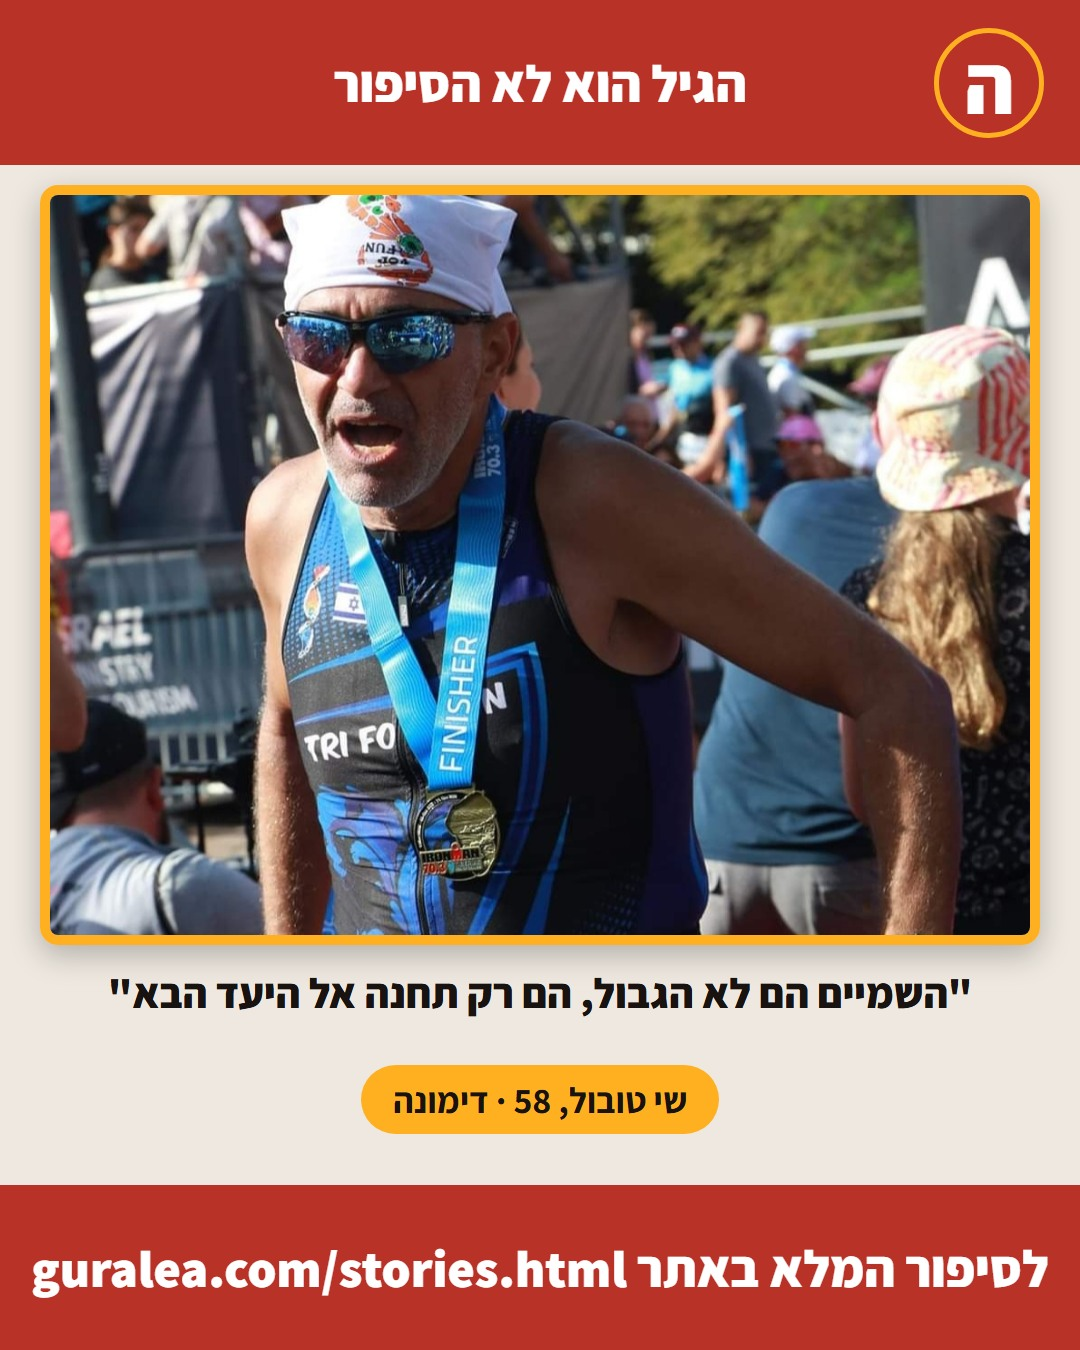
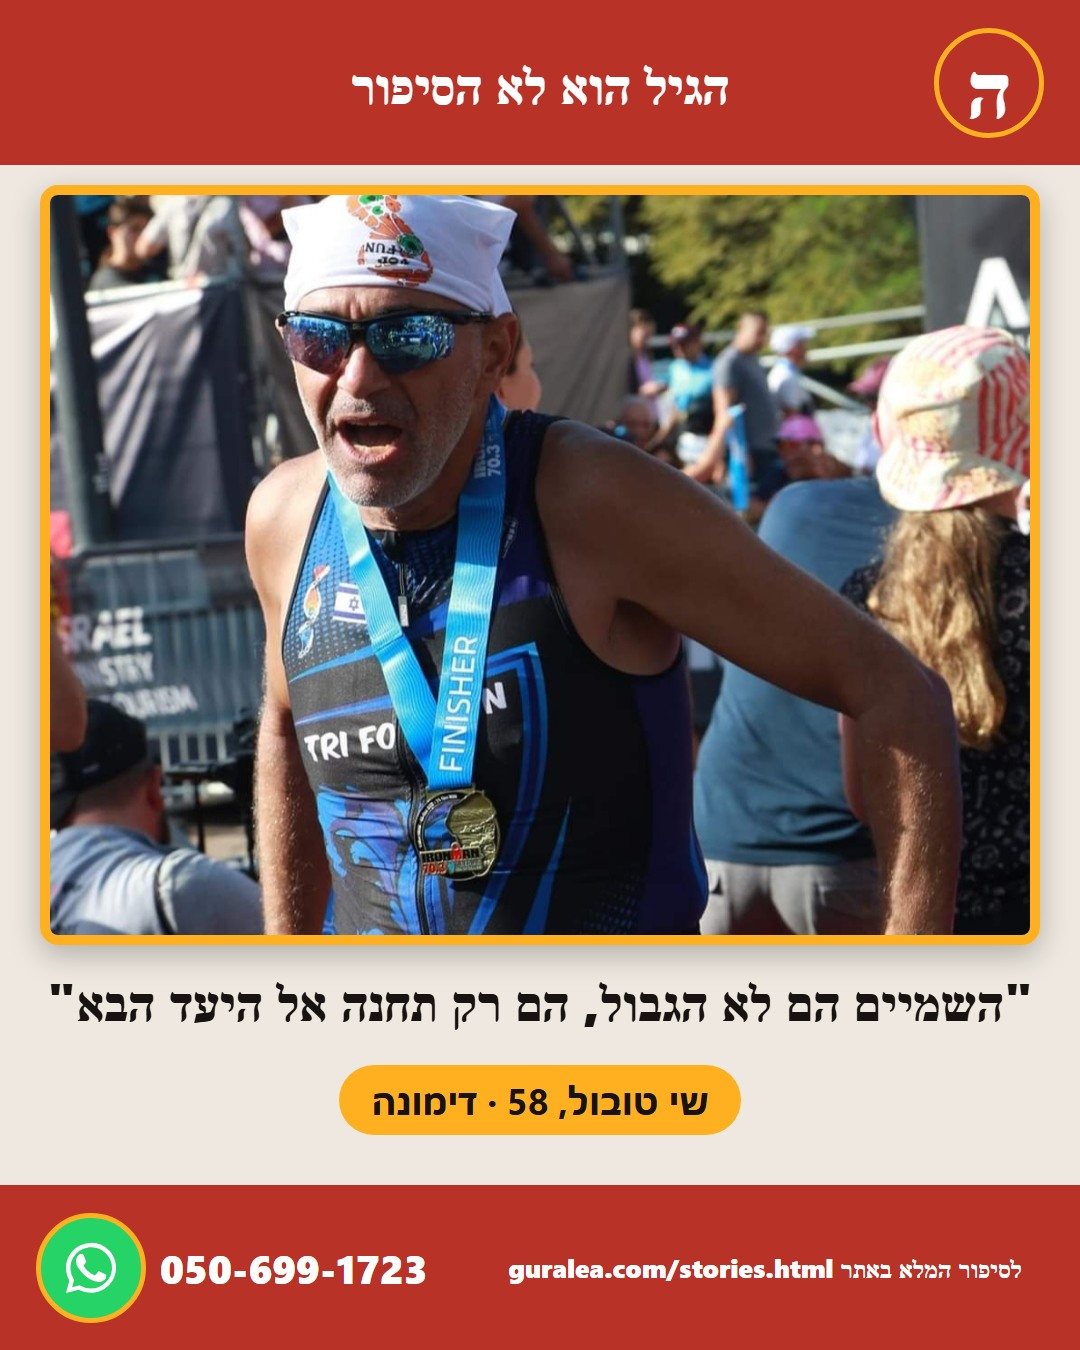
Lock final branded post template - approved by Leah, do not redesign
Adds a mirrored green WhatsApp badge (bottom-left, same size/inset as
the logo badge) to post-frame-template.html, required on every future
published image alongside the existing logo. Rebuilds Shai's committed
image files with the new design (asset update only - his post already
went out this morning under the old design and is not republished).

diff --git a/.claude/skills/facebook-teaser/post-frame-template.html b/.claude/skills/facebook-teaser/post-frame-template.html
@@ -51,10 +51,28 @@
   }
   .bottom-band {
     position: absolute; bottom: 0; left: 0; right: 0; height: 165px;
-    background: #b83227; display: flex; align-items: center; justify-content: center;
-    padding: 0 20px;
+    background: #b83227;
   }
-  .bottom-band span { color: #fff; font-size: 52px; font-weight: 800; white-space: nowrap; }
+  .bottom-cta {
+    position: absolute; bottom: 0; left: 470px; right: 20px; height: 165px;
+    display: flex; align-items: center; justify-content: center;
+  }
+  .bottom-cta span { color: #fff; font-size: 26px; font-weight: 800; white-space: nowrap; }
+  .wa-badge {
+    position: absolute; bottom: 82.5px; left: 36px; transform: translateY(50%);
+    display: flex; align-items: center; gap: 14px; direction: ltr;
+  }
+  .wa-badge .circle {
+    width: 110px; height: 110px; border-radius: 50%;
+    background: #25d366; border: 5px solid #ffb020;
+    display: flex; align-items: center; justify-content: center;
+    flex-shrink: 0;
+  }
+  .wa-badge .circle svg { width: 60px; height: 60px; fill: #fff; }
+  .wa-badge .number {
+    color: #fff; font-weight: 800; font-size: 40px; white-space: nowrap;
+    direction: ltr;
+  }
 </style>
 </head>
 <body>
@@ -71,6 +89,11 @@
   <div class="name-pill">
     <span>{{NAME}}, {{AGE}} · {{LOCATION}}</span>
   </div>
-  <div class="bottom-band"><span>לסיפור המלא באתר guralea.com/stories.html</span></div>
+  <div class="bottom-band"></div>
+  <div class="bottom-cta"><span>לסיפור המלא באתר guralea.com/stories.html</span></div>
+  <div class="wa-badge">
+    <div class="circle"><svg viewBox="0 0 24 24"><path d="M17.472 14.382c-.297-.149-1.758-.867-2.03-.967-.273-.099-.471-.148-.67.15-.197.297-.767.966-.94 1.164-.173.199-.347.223-.644.075-.297-.15-1.255-.463-2.39-1.475-.883-.788-1.48-1.761-1.653-2.059-.173-.297-.018-.458.13-.606.134-.133.298-.347.446-.52.149-.174.198-.298.298-.497.099-.198.05-.371-.025-.52-.075-.149-.669-1.612-.916-2.207-.242-.579-.487-.5-.669-.51-.173-.008-.371-.01-.57-.01-.198 0-.52.074-.792.372-.272.297-1.04 1.016-1.04 2.479 0 1.462 1.065 2.875 1.213 3.074.149.198 2.096 3.2 5.077 4.487.709.306 1.262.489 1.694.625.712.227 1.36.195 1.871.118.571-.085 1.758-.719 2.006-1.413.248-.694.248-1.289.173-1.413-.074-.124-.272-.198-.57-.347z"/><path d="M12.004 2.003c-5.514 0-9.997 4.483-9.997 9.997 0 1.762.462 3.479 1.34 4.995L2 22l5.117-1.342a9.96 9.96 0 0 0 4.887 1.246h.004c5.514 0 9.997-4.483 9.997-9.997 0-2.67-1.04-5.18-2.928-7.068a9.935 9.935 0 0 0-7.073-2.936zm5.831 15.828a8.283 8.283 0 0 1-5.831 2.416h-.003a8.27 8.27 0 0 1-4.213-1.152l-.302-.18-3.037.797.81-2.96-.197-.304a8.259 8.259 0 0 1-1.266-4.418c0-4.575 3.723-8.297 8.302-8.297a8.243 8.243 0 0 1 5.868 2.434 8.238 8.238 0 0 1 2.428 5.868 8.276 8.276 0 0 1-2.559 5.796z"/></svg></div>
+    <div class="number">050-699-1723</div>
+  </div>
 </body>
 </html>

diff --git a/.claude/skills/story-share-cards/SKILL.md b/.claude/skills/story-share-cards/SKILL.md
@@ -1,0 +1,45 @@
+---
+name: story-share-cards
+description: Builds a personal, shareable social card for each community member whose story is published on stories.html - their photo, a real quote from their own story, their name, and a link back to their story page - so they can share it themselves on Facebook/Instagram/WhatsApp and invite people to read the full story. Use whenever asked to prepare, design, or update a share card / כרטיס שיתוף for a community-story member, or to continue this in-progress project.
+---
+
+# Story share cards
+
+## HARD RULE, locked 2026-09-01: ONE design system for every branded image on this project, no exceptions
+
+Leah's explicit instruction: **`.claude/skills/facebook-teaser/post-frame-template.html` is THE locked template - for branded Facebook post images AND for these personal share cards, no separate design.** The old square (1080×1080), `object-fit:contain`, cream-background design that used to live in this skill's own `templates/` folder is discarded - those files have been deleted. Do not recreate them, do not design a separate look for share cards "because they're a different use case." There is one branded look for this whole project now.
+
+**This supersedes every design note below this point that describes the old square/contain template** - those sections are kept only as historical record of *why* the old design existed and *what mistake to avoid repeating* (the letterboxing/logo-order/spacing lessons still apply conceptually), not as instructions to follow. When building a card, go read `post-frame-template.html` directly for the real current markup/CSS - don't reconstruct it from memory or from the historical notes below.
+
+**Also locked 2026-09-01: the round logo badge sits in the exact same spot, same size, on all 4 cards.** In the current template that's `.logo-badge` (110px circle, gold border, positioned `top:50%; right:36px`, vertically centered in the 165px top band) - copy the template file as-is per person and only change the photo, quote, name/age/location. Never touch `.top-band`/`.logo-badge` positioning per-card.
+
+**Updated 2026-09-02: `post-frame-template.html` now also has a mirrored green WhatsApp badge** (`.wa-badge`, 110px circle - same size as the logo - positioned `bottom:82.5px; left:36px` to exactly mirror the logo's corner treatment, with the number `050-699-1723` to its right) in the bottom-left corner, plus the CTA text repositioned to `left:470px` so it no longer collides with the badge. Every card built from here on inherits this automatically since this skill just copies the template as-is - don't touch this positioning per-card, same as the logo rule above. See the two "STANDING RULE, added 2026-09-02" sections in `facebook-teaser/SKILL.md` for the full reasoning (this is a hard publish gate, not a style choice) - including that an image without both corner badges doesn't get published.
+
+**Practical effect on the crop rule:** the current locked template uses `object-fit: cover; object-position: center 20%` (crops to fill the frame, biased toward the top of the photo) - this is Leah's approved choice for this design, not an error. The old "never crop, always contain, show the whole person" principle from the square design no longer applies to this project's actual output. If a future photo crops out something important (e.g. a raised arm, a visible prop that matters to the story), flag it to Leah rather than silently accepting a bad crop - but don't revert to `contain` unilaterally.
+
+## Current roster - the 4 approved community-story members (checked 2026-09-01)
+
+All four are in the `story_submissions` Firestore collection, `status: "approved"`. Direct story links use the pattern `https://guralea.com/stories.html#story-{docId}`.
+
+| Name | Doc ID | Age | Location |
+|---|---|---|---|
+| שי טובול | `3rwLZMW9hFppFhgALAgk` | 58 | דימונה |
+| אמנון גאון | `hjKPq4o7IpOlDYsomjDc` | 76 | קרית מוצקין |
+| אליעזר רוה | `pbISy7l7kfwfbJMhphPc` | 91 | רמת גן |
+| אבי תורג'מן | `Q0K9W9wyU88HlsemRhDc` | 62 | ישראל |
+
+Quotes used, all verbatim (or disclosed-trim) from each person's own `edited.closingLine` Firestore field:
+- שי: "השמיים הם לא הגבול, הם רק תחנה אל היעד הבא"
+- אמנון: "אני ממליץ להיות פעילים בכושר - בכל גיל" (trimmed from the full closingLine for length; meaning preserved - disclose the trim if asked)
+- אבי: "הכול בראש. הכול אפשרי" (verbatim)
+- אליעזר: "אל תשקוד על שמריך" (verbatim)
+
+## Status as of 2026-09-01: all 4 rebuilt on the single locked template - shown to Leah - awaiting "מאושר"
+
+Shai, Avi, and Eliezer's images already existed as committed assets from the same-day post-frame-template lock: `images/facebook-posts-branded/story-3rwLZMW9hFppFhgALAgk-relaunch.png`, `story-Q0K9W9wyU88HlsemRhDc-relaunch.png`, `story-pbISy7l7kfwfbJMhphPc-relaunch.png` - reused as-is. Amnon's committed file at that path is stale (dated 2026-08-24, old design) - a fresh render matching the locked template was built and shown separately; **replace the committed Amnon file with the new render once Leah approves**, don't leave the stale 8/24 one in the repo.
+
+**Nothing published/sent anywhere except to Leah for review - waiting for her explicit "מאושר" before any further action**, per the standing approval-gate rule in `site-open-items` SKILL.md.
+
+## Historical design notes (old square/contain template - SUPERSEDED, kept for lesson context only)
+
+The rest of this file below described the discarded square-card design in detail (branded-frame layout, the crop hard rule, 8 hard-won lessons from the original Shai Tuvol design session, the two accompanying share-copy text blocks). That design and those files no longer exist. The **lessons about logo positioning consistency, visible gaps, and not leaving dead space** are still generally good instincts to apply when checking any new render against the current locked template - but the specific CSS values, dimensions, and the `contain`-based crop rule described there are obsolete. Do not resurrect them.

diff --git a/.claude/skills/facebook-teaser/SKILL.md b/.claude/skills/facebook-teaser/SKILL.md
@@ -5,6 +5,22 @@ description: Creates one short Facebook teaser post per day for the "הגיל ה
 
 # Daily Facebook teaser
 
+## STANDING RULE, added 2026-09-02: every published image carries the logo AND a WhatsApp badge, no exceptions
+
+Leah's explicit instruction: **every image that goes out for publication - story, teaser, workshop, any post, any channel - must include two fixed elements, both baked into `post-frame-template.html` itself now (already implemented, don't rebuild from scratch):**
+1. The round red logo badge ("ה"), top-right corner - unchanged, already existed.
+2. A round green WhatsApp badge + the number, bottom-left corner (the mirror-opposite corner) - **same exact size (110px), same exact inset/positioning treatment as the logo** (she was explicit about this: "אותה נקודת ייחוס: כמו הלוגו, בפינה הנגדית, באותו גודל" - same reference point, like the logo, opposite corner, same size). The circle is the outermost element (flush to that corner, mirroring how the logo sits flush to its corner); the phone number `050-699-1723` sits to its right (toward the center of the card), never to its left.
+
+**An image without both elements does not get published or scheduled - this is a hard gate, not a style preference.** The current `post-frame-template.html` already has this built in (`.wa-badge` block, positioned `bottom:82.5px; left:36px` to exactly mirror `.logo-badge`'s `top:50%; right:36px`) - use the template as-is, don't touch this positioning per-post. If a quote is long enough to need 2 lines or a different `{{QUOTE_SIZE}}}`, that only affects `.quote-text` - never resize or reposition the corner badges to make room.
+
+**Getting the two corner elements to coexist with the bottom-band CTA text took several rounds of real trial and error (2026-09-02)** - the bottom-band CTA text zone is `left:470px; right:20px` at `font-size:26px`, sized specifically so it doesn't collide with the WhatsApp badge. If the CTA text content itself ever changes to something longer/shorter, re-measure (PowerShell `System.Drawing.Graphics.MeasureString` with "Segoe UI" bold is a good stand-in for the "Assistant" web font) rather than guessing pixel values by eye - guessing produced 4 failed overlapping iterations before landing on the real fix.
+
+**This is retroactive for the sitting-image files but NOT retroactive for already-published posts:** rebuild the committed image files for all 4 story people (Shai, Amnon, Eliezer, Avi) with the new badge, but Shai's post already went out 2026-09-02 morning under the old design - do not re-publish or re-schedule his post because of this design change. The new design applies to his *file* (for future reuse) and to every post from here on, not a republish of what already went out.
+
+## STANDING RULE, added 2026-09-02: always generate a separate image file for TikTok - never reuse the same file as other networks
+
+Leah's explicit instruction, generalizing the PNG/JPEG fix below into a permanent process rule: **whenever preparing images for a post that includes TikTok, always create the TikTok image as its own distinct file, deliberately generated separately from whatever image is used for Facebook/Instagram** - never assume one file can serve every network. This isn't only about the PNG-vs-JPEG format gotcha (see below) - treat "the TikTok image" and "the other-networks image" as two separate outputs from the branded-image process by default, even if today they'd happen to look identical, so a future format/spec difference doesn't silently break TikTok again.
+
 ## STANDING RULE, added 2026-09-02: TikTok images must be JPEG or WEBP, never PNG
 
 Confirmed via a real failure (Shai Tuvol relaunch, 2026-09-02): Metricool's TikTok publish rejects PNG images with `The content format of the Tiktok photo is incorrect. The 'image/png' type is not allowed, use 'image/jpeg' or 'image/webp' instead.` The site's branded post images are all PNG (`images/facebook-posts-branded/*.png`). Before submitting any post that includes `tiktok` in `providers`, convert the branded image to JPEG first (PowerShell + `System.Drawing`, or equivalent) and use that JPEG's URL in the `media` array for the TikTok-including submission - don't reuse the PNG URL. Facebook/Instagram accept the PNG fine, so if the same post also targets those, either submit two separate calls (one with the PNG for FB/IG, one with the JPEG for TikTok) or just use the JPEG for all three since it works everywhere.
